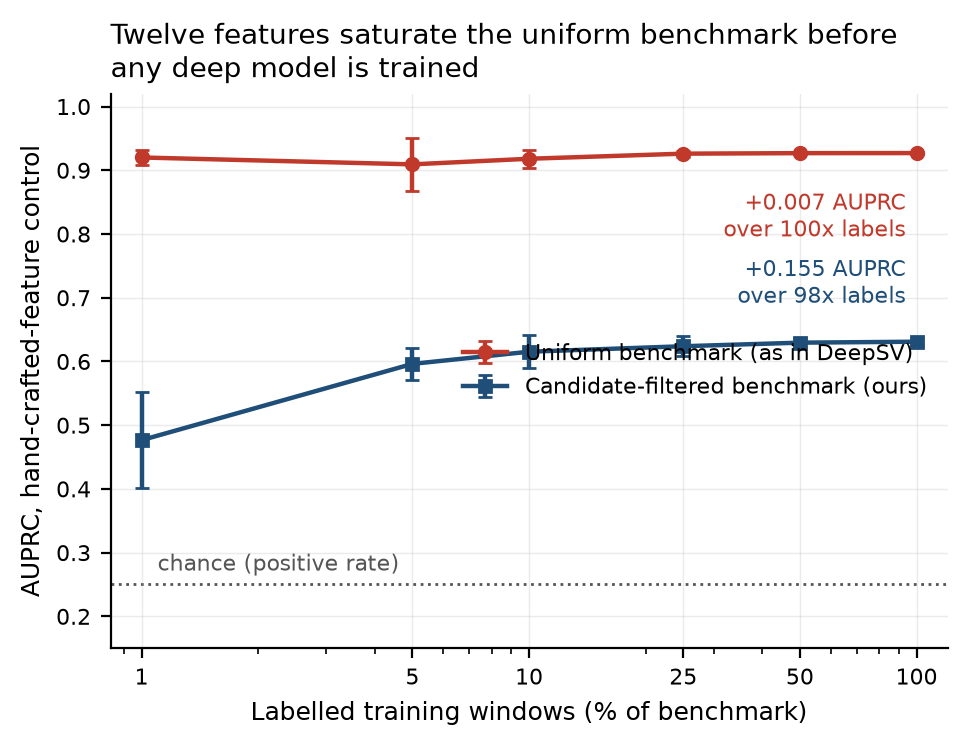
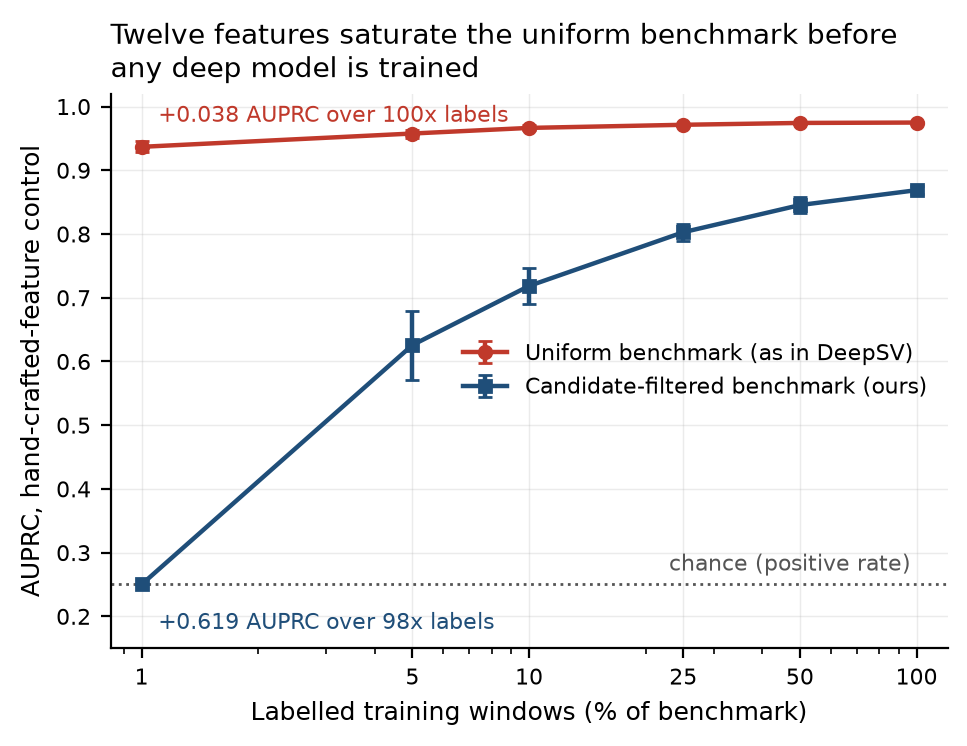
Fix the control aggregator: it was reporting logreg as the GBT
collect() picked whichever metric dict appeared first in each results row and
labelled it 'gradient-boosted tree'. The classical rows carry both models as
sibling keys, and the first one is the logistic regression -- so the committed
table11, its console summary, and the commit message that introduced it all
reported the weaker model under the stronger model's name. On the
candidate-filtered benchmark the error is about 0.24 AUPRC.

The fix names both models explicitly and widens the table with a model column
so both are reported rather than one being silently chosen. A comment at the
MODELS constant records what the old selection did, so the defect stays
auditable instead of being quietly erased.

Corrected reading: the GBT reaches 0.937 AUPRC from 210 labels on the uniform
benchmark and gains only +0.038 over a 100x label increase -- the benchmark is
saturated before any deep model is trained. On the candidate-filtered
benchmark the same control starts at chance (0.249) and climbs +0.619, which
is the quantitative statement that the filtering restored headroom.

Figure 7 reads the GBT rows only and annotates each curve at its own left end.

diff --git a/analysis/make_figures.py b/analysis/make_figures.py
@@ -364,26 +364,34 @@ def figure7(res: Path, out: Path) -> None:
     fig, ax = plt.subplots(figsize=(5.4, 3.6))
     chance = None
     for bench, st in style.items():
+        # table11 carries both classical models; the GBT is the stronger of
+        # the two and is the control the argument rests on.
         pts = sorted((float(r["label_frac"]), float(r["auprc_mean"]),
                       float(r["auprc_sd"]), int(r["n_labelled"]))
-                     for r in rows if r["benchmark"] == bench)
+                     for r in rows if r["benchmark"] == bench
+                     and r["model"] == "Classical-GBT")
         if not pts:
             continue
         x, y, sd, n = (np.array(v) for v in zip(*pts))
         chance = float(next(r["chance_auprc"] for r in rows
-                            if r["benchmark"] == bench))
+                            if r["benchmark"] == bench
+                            and r["model"] == "Classical-GBT"))
         ax.errorbar(x, y, yerr=sd, marker=st["marker"], color=st["colour"],
                     capsize=2.5, label=st["label"], zorder=3)
         # Annotate the span each curve covers: that span IS the argument.
+        # Place each label at the curve's own left end, above the flat curve
+        # and below the rising one, so neither can collide with the other nor
+        # with the legend on the right.
         span = y[-1] - y[0]
-        ax.annotate(f"{span:+.3f} AUPRC\nover {n[-1] // max(n[0], 1)}x labels",
-                    xy=(x[-1], y[-1]), xytext=(-4, -30 if span < 0.05 else 14),
-                    textcoords="offset points", ha="right", fontsize=8,
+        flat = span < 0.1
+        ax.annotate(f"{span:+.3f} AUPRC over {n[-1] // max(n[0], 1)}x labels",
+                    xy=(x[0], y[0]), xytext=(6, 9 if flat else -16),
+                    textcoords="offset points", ha="left", fontsize=8,
                     color=st["colour"])
     if chance is not None:
         ax.axhline(chance, ls=":", lw=1.0, color="#555555", zorder=1)
-        ax.annotate("chance (positive rate)", xy=(0.011, chance),
-                    xytext=(0, 5), textcoords="offset points",
+        ax.annotate("chance (positive rate)", xy=(1.0, chance),
+                    xytext=(-2, 5), textcoords="offset points", ha="right",
                     fontsize=8, color="#555555")
     ax.set_ylim(0.15, 1.02)
     ax.set_ylabel("AUPRC, hand-crafted-feature control")
@@ -394,6 +402,7 @@ def figure7(res: Path, out: Path) -> None:
     ax.set_xlabel("Labelled training windows (% of benchmark)")
     ax.set_title("Twelve features saturate the uniform benchmark before\n"
                  "any deep model is trained", loc="left")
+    ax.set_ylim(0.15, 1.02)
     ax.legend(loc="center right", frameon=False, fontsize=8)
     ax.margins(0.04)
     fig.savefig(out / "figure7_control_threshold_free.png")

diff --git a/analysis/aggregate_control_fixed.py b/analysis/aggregate_control_fixed.py
@@ -27,23 +27,21 @@ import numpy as np
 
 BENCHES = [("uni", "uniform"), ("hn", "candidate-filtered")]
 METRICS = ("auprc", "roc_auc", "f1_at_tau", "f1_at_half")
+# Each results row carries BOTH classical models under their own keys. They
+# must be named explicitly: an earlier version of this script took whichever
+# metric dict appeared first in the row and labelled it "gradient-boosted
+# tree", which silently reported the logistic regression instead -- a model
+# that is roughly 0.24 AUPRC weaker on the candidate-filtered benchmark.
+MODELS = [("hgb", "Classical-GBT"), ("logreg", "Classical-logreg")]
 
 
-def _metrics_of(row):
-    """Pull the metric dict out of a results row, whatever the arm key is."""
-    for v in row.values():
-        if isinstance(v, dict) and "auprc" in v:
-            return v
-    return row if "auprc" in row else None
-
-
-def collect(json_dir, bench):
+def collect(json_dir, bench, model_key):
     acc = {}
     files = sorted(glob.glob(os.path.join(json_dir, f"f_{bench}_classical_seed*.json")))
     for f in files:
         for row in json.load(open(f))["label_efficiency"]:
-            m = _metrics_of(row)
-            if m is None:
+            m = row.get(model_key)
+            if not isinstance(m, dict):
                 continue
             a = acc.setdefault(float(row["frac"]),
                                {k: [] for k in METRICS + ("pos_rate",)})
@@ -63,13 +61,14 @@ def main():
 
     rows = []
     for bkey, bname in BENCHES:
-        acc, nseed = collect(a.json_dir, bkey)
+      for mkey, mname in MODELS:
+        acc, nseed = collect(a.json_dir, bkey, mkey)
         if not acc:
             continue
         for frac in sorted(acc):
             v = acc[frac]
-            rec = {"benchmark": bname, "label_frac": frac, "n_labelled": v["n"],
-                   "n_seeds": nseed}
+            rec = {"benchmark": bname, "model": mname, "label_frac": frac,
+                   "n_labelled": v["n"], "n_seeds": nseed}
             for k in METRICS:
                 xs = v[k]
                 rec[f"{k}_mean"] = round(float(np.mean(xs)), 4) if xs else ""
@@ -88,11 +87,12 @@ def main():
         w.writerows(rows)
 
     for bkey, bname in BENCHES:
-        sel = [r for r in rows if r["benchmark"] == bname]
+        sel = [r for r in rows
+               if r["benchmark"] == bname and r["model"] == "Classical-GBT"]
         if not sel:
             continue
         lo, hi = sel[0], sel[-1]
-        print(f"\n{bname}: AUPRC {lo['auprc_mean']:.3f} at {lo['n_labelled']} labels "
+        print(f"\n{bname} (GBT): AUPRC {lo['auprc_mean']:.3f} at {lo['n_labelled']} labels "
               f"-> {hi['auprc_mean']:.3f} at {hi['n_labelled']} "
               f"(chance {hi['chance_auprc']:.2f})")
         span = hi["auprc_mean"] - lo["auprc_mean"]
